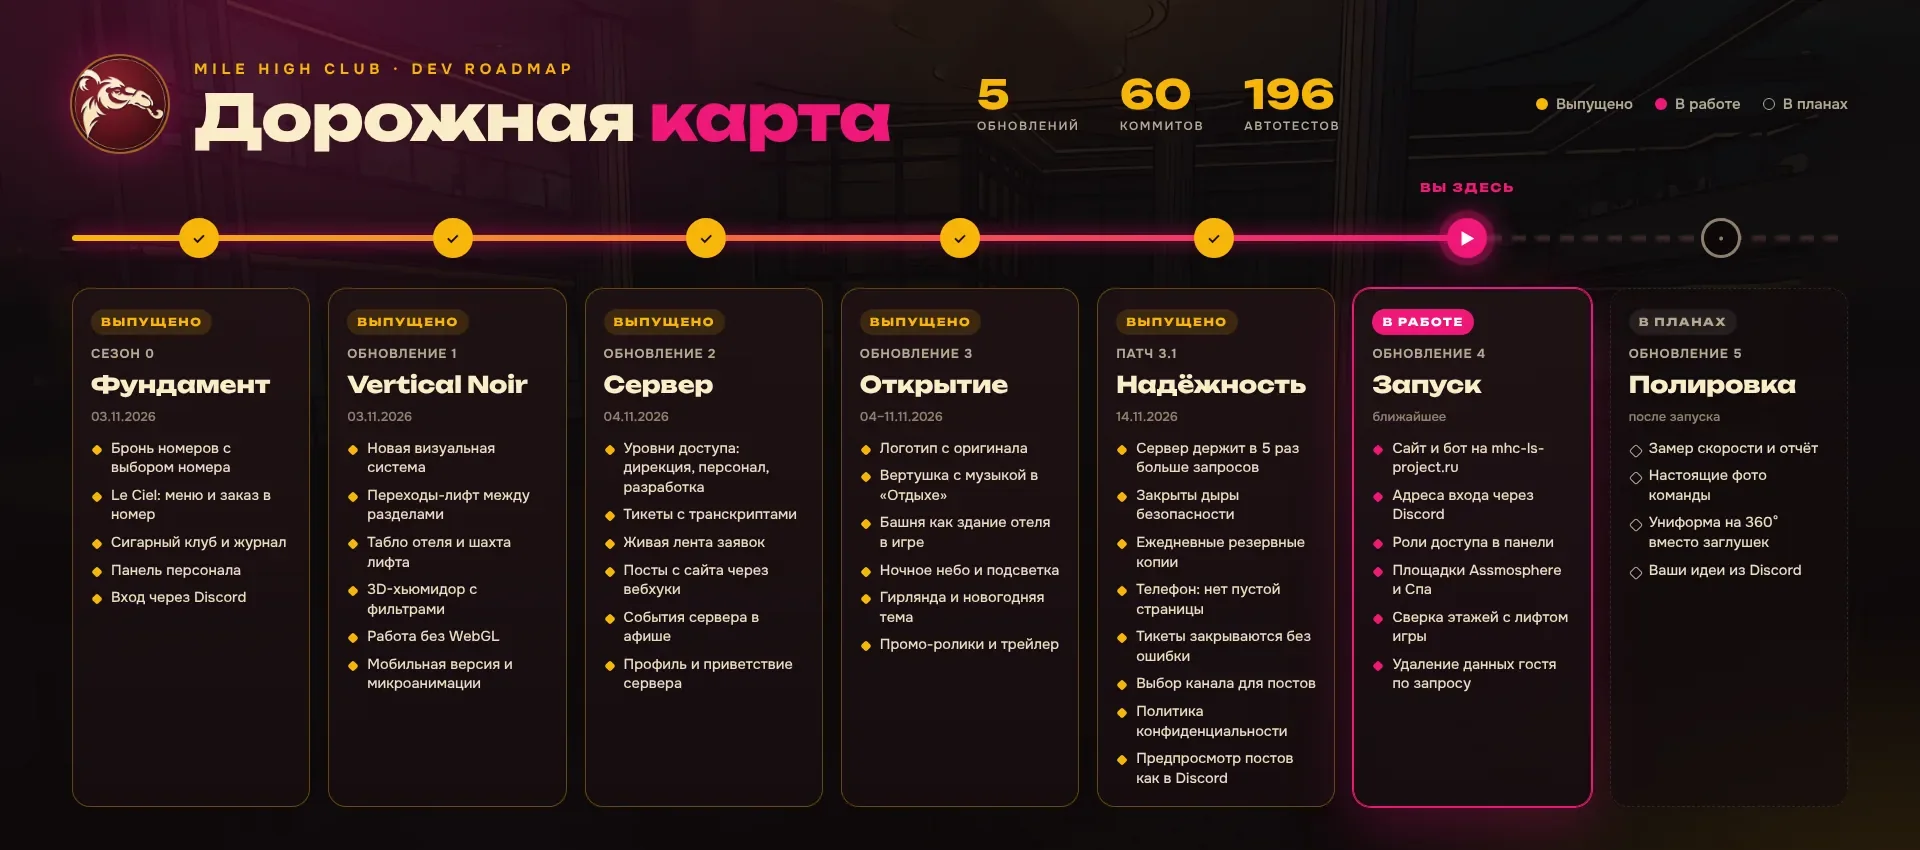
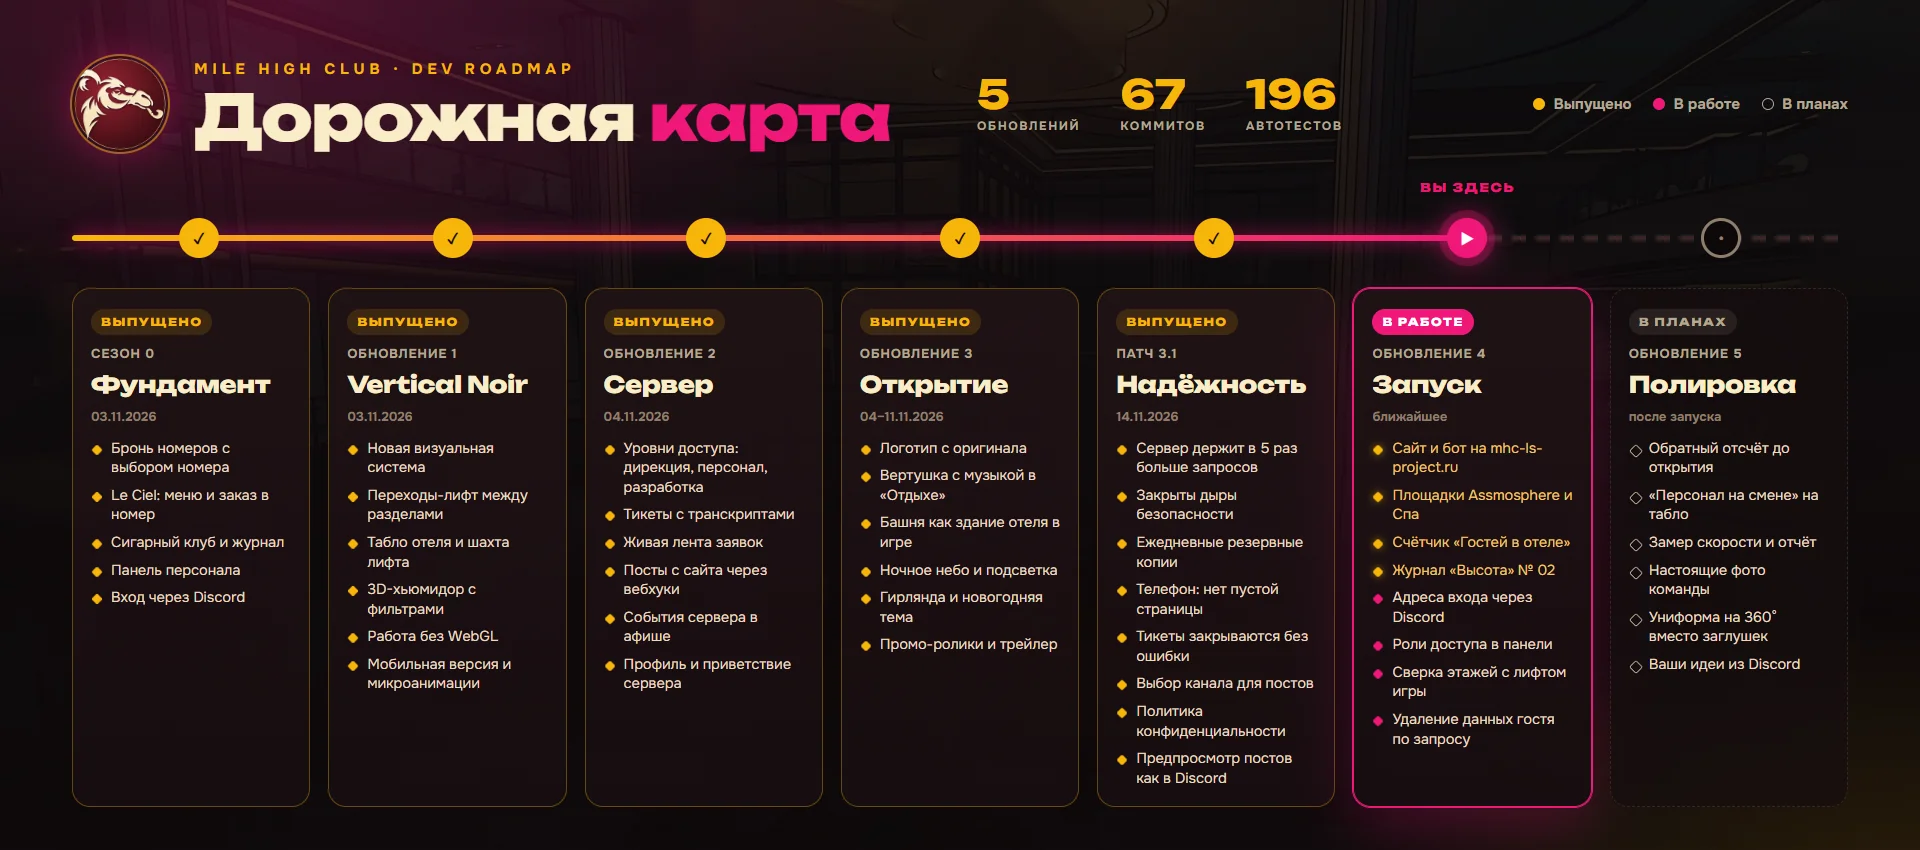
Дорожная карта: прогресс «Запуска» и новые планы
- «Запуск»: сайт и бот на сервере, Assmosphere и Спа, счётчик «Гостей в отеле», журнал «Высота» № 02 — выполнено
- «Полировка»: обратный отсчёт до открытия, «Персонал на смене» на табло
- картинка карты: локальные шрифты вместо Google Fonts, CHROME_PATH для рендера, 67 коммитов

diff --git a/docs/roadmap/roadmap.html b/docs/roadmap/roadmap.html
@@ -1,5 +1,14 @@
 <!doctype html><meta charset="utf-8">
-<link rel="stylesheet" href="https://fonts.googleapis.com/css2?family=Unbounded:wght@600;700;800&family=Onest:wght@400;500;600;700&display=swap">
+<style>/* шрифты из проекта: картинка собирается и без доступа к Google Fonts */
+@font-face{font-family:Unbounded;font-weight:600;src:url(../../promo/fonts/unbounded-cyrillic-600-normal.woff2) format("woff2");unicode-range:U+0400-045F,U+0490-0491,U+04B0-04B1,U+2116}
+@font-face{font-family:Unbounded;font-weight:600;src:url(../../promo/fonts/unbounded-latin-600-normal.woff2) format("woff2");unicode-range:U+0000-00FF,U+2000-206F,U+20AC,U+2122}
+@font-face{font-family:Unbounded;font-weight:700 800;src:url(../../promo/fonts/unbounded-cyrillic-800-normal.woff2) format("woff2");unicode-range:U+0400-045F,U+0490-0491,U+04B0-04B1,U+2116}
+@font-face{font-family:Unbounded;font-weight:700 800;src:url(../../promo/fonts/unbounded-latin-800-normal.woff2) format("woff2");unicode-range:U+0000-00FF,U+2000-206F,U+20AC,U+2122}
+@font-face{font-family:Onest;font-weight:400 500;src:url(../../promo/fonts/onest-cyrillic-400-normal.woff2) format("woff2");unicode-range:U+0400-045F,U+0490-0491,U+04B0-04B1,U+2116}
+@font-face{font-family:Onest;font-weight:400 500;src:url(../../promo/fonts/onest-latin-400-normal.woff2) format("woff2");unicode-range:U+0000-00FF,U+2000-206F,U+20AC,U+2122}
+@font-face{font-family:Onest;font-weight:600 700;src:url(../../promo/fonts/onest-cyrillic-700-normal.woff2) format("woff2");unicode-range:U+0400-045F,U+0490-0491,U+04B0-04B1,U+2116}
+@font-face{font-family:Onest;font-weight:600 700;src:url(../../promo/fonts/onest-latin-700-normal.woff2) format("woff2");unicode-range:U+0000-00FF,U+2000-206F,U+20AC,U+2122}
+</style>
 <style>
 :root{--bg:#0d0809;--card:#1a1012;--line:#3a2326;--fg:#F9EDC7;--mut:#B3A792;--pink:#F0177A;--gold:#F7B50A;--done:#F2C46D;--soft:#8f7f6c}
 *{box-sizing:border-box}
@@ -7,6 +16,7 @@ body{margin:0;width:1920px;height:960px;background:var(--bg);color:var(--fg);fon
 .bgimg{position:absolute;inset:0;background:url(../../public/img/layers/atrium-night-far.webp) center/cover;opacity:.16;filter:saturate(1.2)}
 .glow{position:absolute;inset:0;background:radial-gradient(900px 500px at 15% 0%,rgba(240,23,122,.28),transparent 70%),radial-gradient(800px 500px at 100% 100%,rgba(247,181,10,.14),transparent 70%),linear-gradient(180deg,rgba(13,8,9,.3),rgba(13,8,9,.92) 60%)}
 .wrap{position:relative;padding:56px 72px 0}
+.now li.ok{color:var(--done)}.now li.ok::before{background:var(--gold);box-shadow:0 0 8px rgba(247,181,10,.6)}
 header{display:flex;align-items:center;gap:26px}
 header img{width:96px;height:96px;border-radius:50%;box-shadow:0 0 0 2px rgba(247,181,10,.5),0 0 40px rgba(240,23,122,.45)}
 .eb{font:700 15px Onest;letter-spacing:.32em;color:var(--gold);text-transform:uppercase}
@@ -47,7 +57,7 @@ li.ok::before{background:var(--gold)}
 <div class="bgimg"></div><div class="glow"></div>
 <div class="wrap">
 <header><img src="../../public/img/emblem.webp" alt=""><div><div class="eb">Mile High Club · dev roadmap</div><h1>Дорожная <span>карта</span></h1></div>
-<div class="stats"><div><span class="big">5</span><small>обновлений</small></div><div><span class="big">60</span><small>коммитов</small></div><div><span class="big">196</span><small>автотестов</small></div></div>
+<div class="stats"><div><span class="big">5</span><small>обновлений</small></div><div><span class="big">67</span><small>коммитов</small></div><div><span class="big">196</span><small>автотестов</small></div></div>
 <div class="legend"><span><i style="background:var(--gold)"></i>Выпущено</span><span><i style="background:var(--pink)"></i>В работе</span><span><i style="border:1.5px solid var(--mut)"></i>В планах</span></div></header>
 
 <div class="track"><div class="rail"></div><div class="prog" style="--p:78.5"></div>
@@ -70,9 +80,9 @@ li.ok::before{background:var(--gold)}
 <li>Сервер держит в 5 раз больше запросов</li><li>Закрыты дыры безопасности</li><li>Ежедневные резервные копии</li><li>Телефон: нет пустой страницы</li><li>Тикеты закрываются без ошибки</li><li>Выбор канала для постов</li><li>Политика конфиденциальности</li><li>Предпросмотр постов как в Discord</li></ul></div>
 
 <div class="c now"><span class="tag">В РАБОТЕ</span><div class="ver">ОБНОВЛЕНИЕ 4</div><h2>Запуск</h2><div class="date">ближайшее</div><ul>
-<li>Сайт и бот на mhc-ls-project.ru</li><li>Адреса входа через Discord</li><li>Роли доступа в панели</li><li>Площадки Assmosphere и Спа</li><li>Сверка этажей с лифтом игры</li><li>Удаление данных гостя по запросу</li></ul></div>
+<li class="ok">Сайт и бот на mhc-ls-project.ru</li><li class="ok">Площадки Assmosphere и Спа</li><li class="ok">Счётчик «Гостей в отеле»</li><li class="ok">Журнал «Высота» № 02</li><li>Адреса входа через Discord</li><li>Роли доступа в панели</li><li>Сверка этажей с лифтом игры</li><li>Удаление данных гостя по запросу</li></ul></div>
 
 <div class="c plan"><span class="tag">В ПЛАНАХ</span><div class="ver">ОБНОВЛЕНИЕ 5</div><h2>Полировка</h2><div class="date">после запуска</div><ul>
-<li>Замер скорости и отчёт</li><li>Настоящие фото команды</li><li>Униформа на 360° вместо заглушек</li><li>Ваши идеи из Discord</li></ul></div>
+<li>Обратный отсчёт до открытия</li><li>«Персонал на смене» на табло</li><li>Замер скорости и отчёт</li><li>Настоящие фото команды</li><li>Униформа на 360° вместо заглушек</li><li>Ваши идеи из Discord</li></ul></div>
 </div></div>
-<div class="foot"><span>Сайт отеля и Discord-бот · Node.js, three.js, discord.js</span><span>Обновлено 14.11.2026</span></div>
+<div class="foot"><span>Сайт отеля и Discord-бот · Node.js, three.js, discord.js</span><span>Обновлено 16.11.2026</span></div>

diff --git a/README.md b/README.md
@@ -41,14 +41,18 @@
 ![Дорожная карта](docs/img/roadmap.webp)
 
 ### 🛠 Сейчас в работе · Обновление 4 «Запуск»
-- [ ] Сайт и бот на сервере, домен `mhc-ls-project.ru`
+- [x] Сайт и бот на сервере, домен `mhc-ls-project.ru`
+- [x] Площадки Assmosphere и Спа (Спа — «скоро открытие»)
+- [x] Счётчик «Гостей в отеле»: онлайн сервера на табло главной и в шапке, без упоминания Discord
+- [x] Журнал «Высота» № 02 — спецвыпуск к открытию
 - [ ] Адреса входа через Discord на новом домене
 - [ ] Роли доступа в панели: «Доступ и анонсы»
-- [ ] Площадки Assmosphere и Спа
 - [ ] Сверка этажей: на сайте 7 этажей номеров, в лифте игры 6
 - [ ] Удаление данных гостя по запросу
 
 ### 🔭 В планах · Обновление 5 «Полировка»
+- [ ] Обратный отсчёт до открытия отеля на главной (нужна дата)
+- [ ] «Персонал на смене» на табло: сколько сотрудников сейчас в сети (нужен интент присутствия у бота)
 - [ ] Замер скорости загрузки и отчёт
 - [ ] Настоящие фото команды в анкетах
 - [ ] Фото униформы на 360° вместо заглушек
